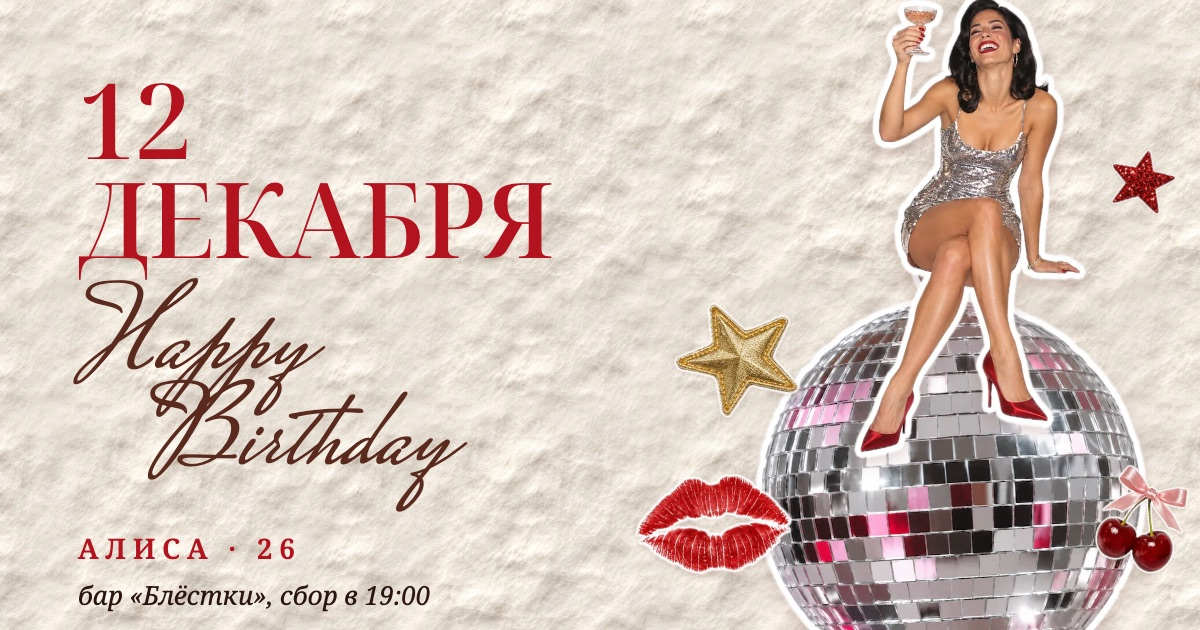
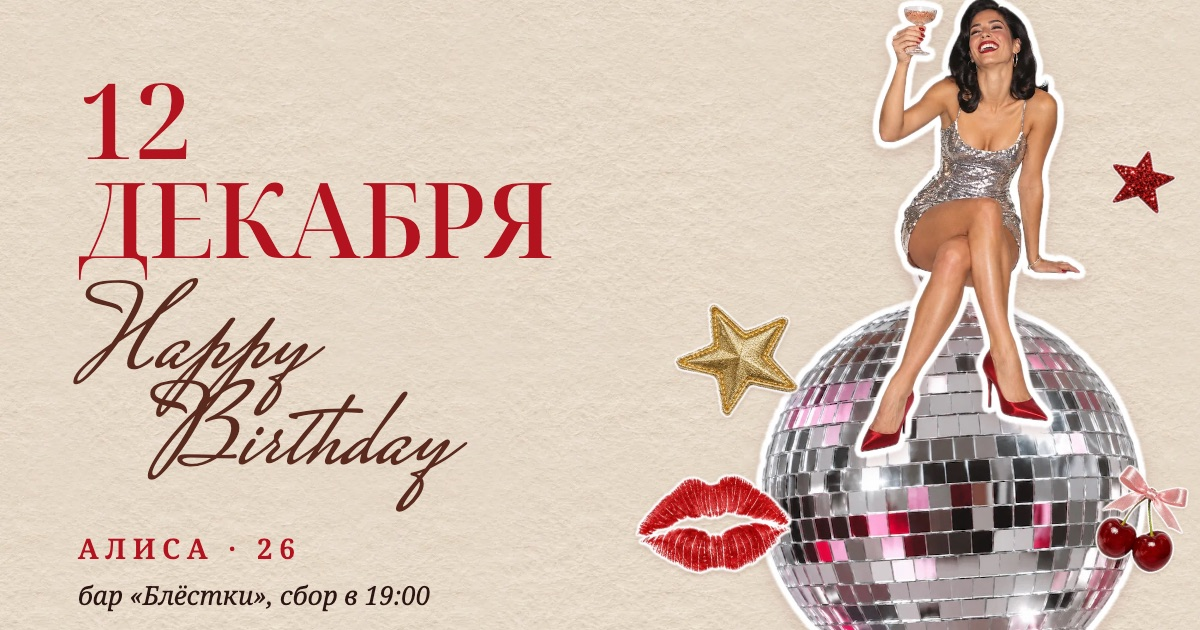
Фон страницы на той же бумаге, что и конверт

diff --git a/index.html b/index.html
@@ -38,13 +38,13 @@
   --serif:"Noto Serif Display","Georgia",serif;
   --text:"Noto Serif","Georgia",serif;
   --script:"Mrs Saint Delafield","Snell Roundhand",cursive;
-  --tex:url("img/c/paper-3.webp");
+  --tex:url("img/c/paper.webp");
   --tex-env:url("img/c/paper.webp");
 }
 *{box-sizing:border-box;margin:0;padding:0}
 html{-webkit-text-size-adjust:100%}
 html.locked,html.locked body{overflow:hidden;height:100%}
-body{font-family:var(--text);font-size:17px;color:var(--ink);background:var(--paper) var(--tex) 0 0/360px;min-height:100svh;overflow-x:hidden;-webkit-font-smoothing:antialiased;line-height:1.45}
+body{font-family:var(--text);font-size:17px;color:var(--ink);background:var(--paper) var(--tex) 0 0/420px;background-blend-mode:multiply;min-height:100svh;overflow-x:hidden;-webkit-font-smoothing:antialiased;line-height:1.45}
 img{display:block;max-width:none}
 button{font:inherit}
 .vh{position:absolute;width:1px;height:1px;overflow:hidden;clip:rect(0 0 0 0);white-space:nowrap}
@@ -73,7 +73,7 @@ img[src$="bow.webp"]{scale:1.1235}
 
 /* ---------- конверт ---------- */
 /* стол под конвертом — та же бумага, что у страницы */
-.envelope{position:fixed;inset:0;z-index:50;cursor:pointer;overflow:hidden;background:var(--paper) var(--tex) 0 0/360px;-webkit-tap-highlight-color:transparent}
+.envelope{position:fixed;inset:0;z-index:50;cursor:pointer;overflow:hidden;background:var(--paper) var(--tex) 0 0/420px;background-blend-mode:multiply;-webkit-tap-highlight-color:transparent}
 .envelope.is-done{background:transparent;pointer-events:none}
 .env-scene{position:absolute;inset:0;transform-origin:50% 50%;perspective:1500px;will-change:transform}
 .env-drop{position:absolute;inset:0;z-index:0;box-shadow:0 34px 70px -10px rgba(80,25,25,.32),0 6px 14px rgba(80,25,25,.12)}
